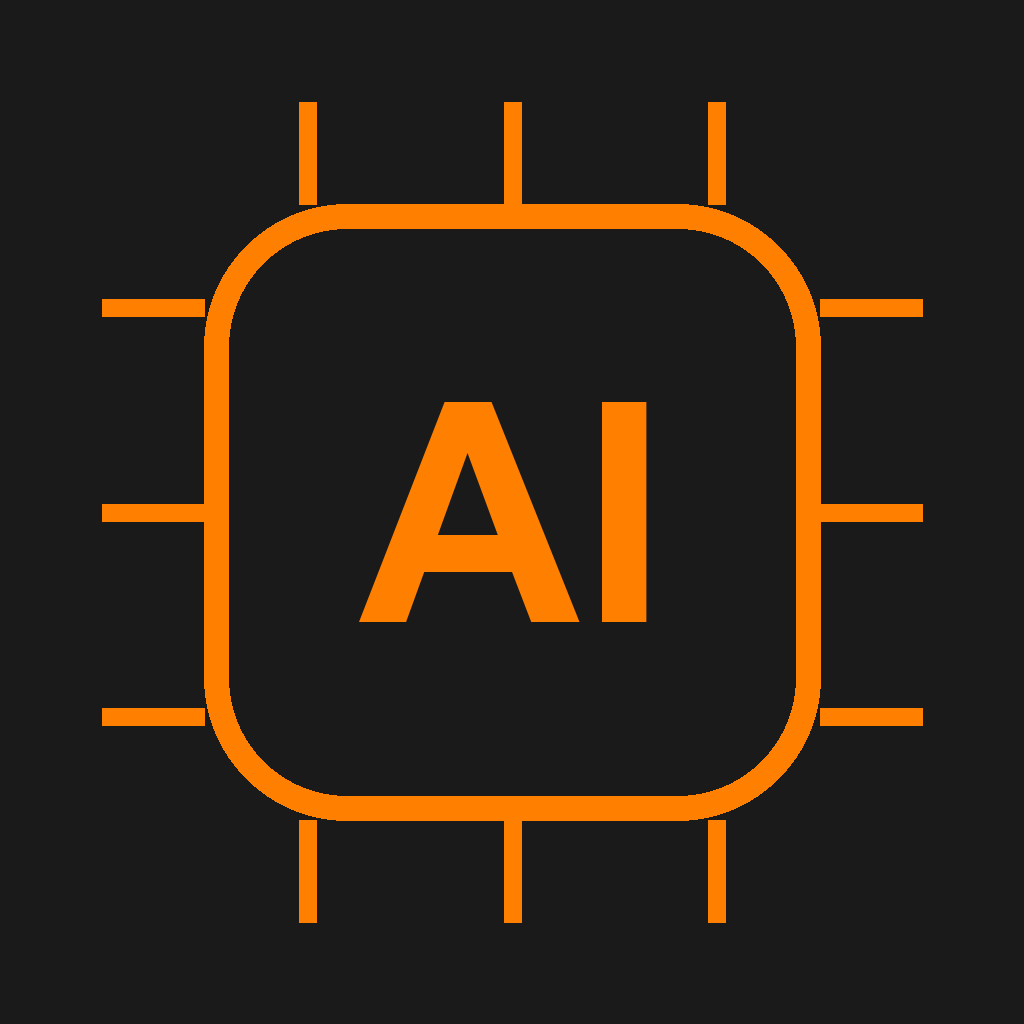
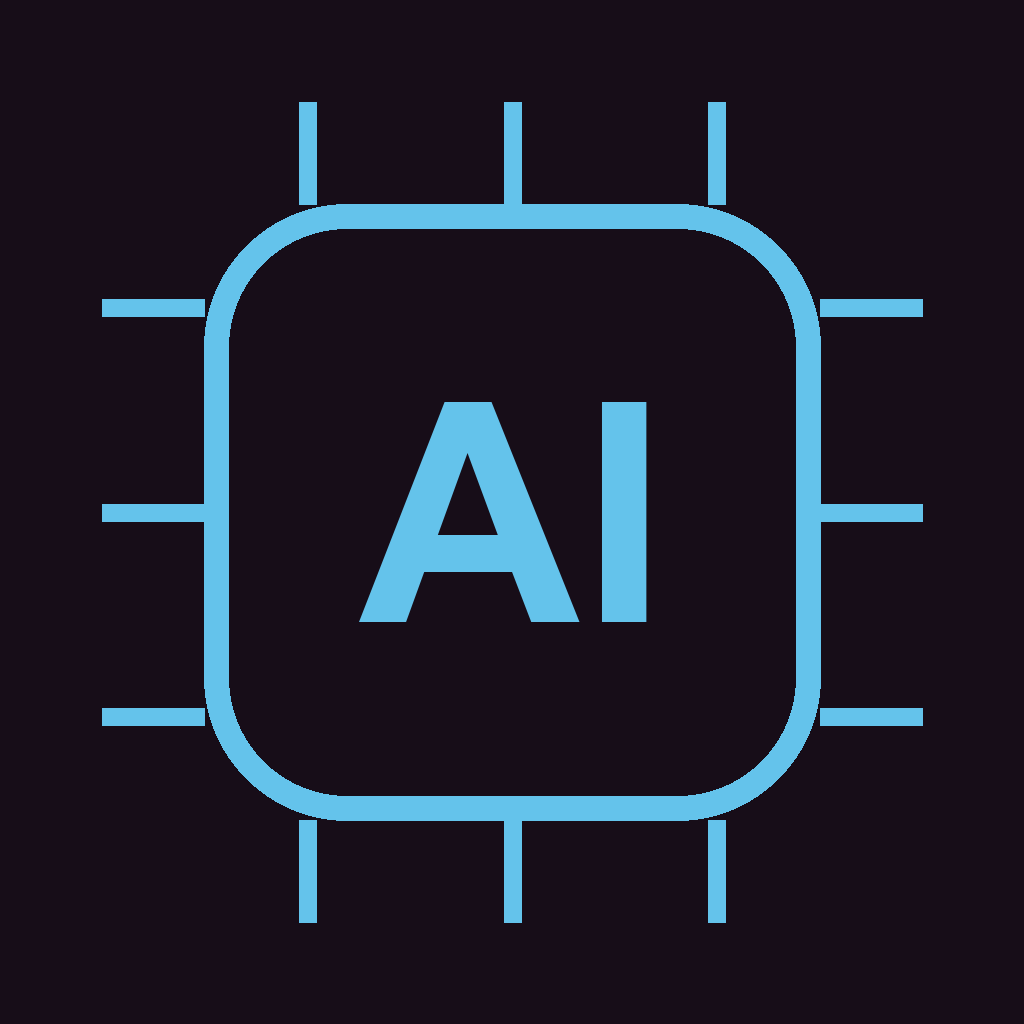
Full color palette overhaul: deep purple/blue with green/yellow/pink accents
Replaced Racing Orange with a new palette (deep purple #4A154B to sky
blue #64C3EB gradient header, near-black plum chat background) at the
user's request. Put all five colors to real use, not just two:
- Green weather pill, yellow exchange-rate pill (now actually displayed
  in the header, not just fed silently into her AI context)
- Pink hands-free toggle and assistant-bubble accent border
- Blue user message bubbles
Also replaced plain white surfaces (assistant bubbles, mic button, text
input) with a tinted off-white so big blocks don't look like a flat white
sheet dropped on the new palette. Regenerated the AI-chip app icon/splash
in the new colors (was still the old orange/black version).

Changed region(s): [[0.0938, 0.0938, 0.9062, 0.9062], [0.3438, 0.375, 0.6562, 0.625]]

diff --git a/App.tsx b/App.tsx
@@ -32,9 +32,18 @@ import { LinearGradient } from "expo-linear-gradient";
 // orange/black livery colors, deliberately not named after any car brand
 // to avoid trademark issues).
 // -----------------------------------------------------------------------
-const ACCENT = "#FF8A00";
-const ACCENT2 = "#FF3D00";
-const ACCENT_DARK = "#1A1A1A";
+const ACCENT = "#4A154B";
+const ACCENT2 = "#64C3EB";
+const ACCENT_DARK = "#170D18";
+// Reserved for small status/info accents (pills, bubbles) - not page
+// chrome - same "chrome vs status color" split as the original design.
+const STATUS_GREEN = "#5BB381";
+const STATUS_YELLOW = "#E3B34C";
+const STATUS_PINK = "#CE375C";
+// A tinted off-white instead of stark plain white for big surfaces
+// (assistant bubbles, mic button, text input) - reads as part of the
+// purple/blue palette instead of a flat white block dropped on top of it.
+const SURFACE_LIGHT = "#EFE6F1";
 const GEMINI_MODEL = "gemini-3.5-flash-lite";
 const MAX_HISTORY_TURNS = 12;
 
@@ -600,7 +609,7 @@ function AppInner() {
               </View>
               <View style={styles.handsFreeRow}>
                 <Text style={styles.handsFreeLabel}>Hands-free</Text>
-                <Switch value={handsFree} onValueChange={setHandsFree} trackColor={{ true: "#FFFFFF66", false: "#00000033" }} thumbColor="#fff" />
+                <Switch value={handsFree} onValueChange={setHandsFree} trackColor={{ true: STATUS_PINK, false: "#00000033" }} thumbColor="#fff" />
               </View>
             </View>
             <View style={styles.statusRow}>
@@ -608,6 +617,11 @@ function AppInner() {
               {weatherText ? (
                 <View style={styles.weatherPill}>
                   <Text style={styles.weatherPillText}>{weatherText}</Text>
+                </View>
+              ) : null}
+              {exchangeRateText ? (
+                <View style={[styles.weatherPill, styles.exchangePill]}>
+                  <Text style={[styles.weatherPillText, styles.exchangePillText]}>{exchangeRateText}</Text>
                 </View>
               ) : null}
             </View>
@@ -672,7 +686,7 @@ const styles = StyleSheet.create({
   setupSubtitle: { fontSize: 14, color: "#fff", marginBottom: 24, textAlign: "center" },
   setupInput: {
     width: "100%",
-    backgroundColor: "#fff",
+    backgroundColor: SURFACE_LIGHT,
     borderRadius: 10,
     padding: 14,
     fontSize: 14,
@@ -688,28 +702,30 @@ const styles = StyleSheet.create({
   statusRow: { flexDirection: "row", alignItems: "center", marginTop: 12, flexWrap: "wrap", gap: 8 },
   headerSubtitle: { fontSize: 12.5, color: "#fff", opacity: 0.95, flexShrink: 1 },
   weatherPill: {
-    backgroundColor: "rgba(0,0,0,0.18)",
+    backgroundColor: STATUS_GREEN,
     paddingHorizontal: 10,
     paddingVertical: 3,
     borderRadius: 20,
   },
-  weatherPillText: { color: "#fff", fontSize: 11.5, fontWeight: "600" },
+  weatherPillText: { color: "#fff", fontSize: 11.5, fontWeight: "700" },
+  exchangePill: { backgroundColor: STATUS_YELLOW },
+  exchangePillText: { color: "#3B2A08" },
   handsFreeRow: { flexDirection: "row", alignItems: "center" },
   handsFreeLabel: { color: "#fff", marginRight: 8, fontSize: 12.5, fontWeight: "600", opacity: 0.95 },
   chatArea: { flex: 1, backgroundColor: ACCENT_DARK },
   emptyText: { color: "#ccc", fontStyle: "italic", textAlign: "center", marginTop: 40 },
   bubble: { borderRadius: 12, padding: 12, marginBottom: 10, maxWidth: "85%" },
-  bubbleUser: { backgroundColor: ACCENT, alignSelf: "flex-end" },
-  bubbleAssistant: { backgroundColor: "#fff", alignSelf: "flex-start", borderLeftWidth: 3, borderLeftColor: ACCENT },
+  bubbleUser: { backgroundColor: ACCENT2, alignSelf: "flex-end" },
+  bubbleAssistant: { backgroundColor: SURFACE_LIGHT, alignSelf: "flex-start", borderLeftWidth: 3, borderLeftColor: STATUS_PINK },
   bubbleTag: { fontSize: 10, fontWeight: "700", opacity: 0.6, marginBottom: 4 },
-  bubbleTextUser: { color: "#fff", fontSize: 14 },
+  bubbleTextUser: { color: "#0B2430", fontSize: 14 },
   bubbleTextAssistant: { color: "#1D1929", fontSize: 14 },
   inputArea: { backgroundColor: ACCENT_DARK, padding: 12, paddingBottom: 24 },
-  micButton: { backgroundColor: "#fff", borderRadius: 10, paddingVertical: 14, alignItems: "center", marginBottom: 8 },
-  micButtonActive: { backgroundColor: "#FFE0B2" },
+  micButton: { backgroundColor: SURFACE_LIGHT, borderRadius: 10, paddingVertical: 14, alignItems: "center", marginBottom: 8 },
+  micButtonActive: { backgroundColor: "#D9F0E6" },
   micButtonText: { color: ACCENT, fontWeight: "700", fontSize: 15 },
   typeRow: { flexDirection: "row", alignItems: "center" },
-  typeInput: { flex: 1, backgroundColor: "#fff", borderRadius: 10, padding: 12, fontSize: 14, marginRight: 8 },
-  sendButton: { backgroundColor: ACCENT, borderRadius: 10, width: 44, height: 44, alignItems: "center", justifyContent: "center" },
-  sendButtonText: { color: "#fff", fontSize: 20, fontWeight: "700" },
+  typeInput: { flex: 1, backgroundColor: SURFACE_LIGHT, borderRadius: 10, padding: 12, fontSize: 14, marginRight: 8, color: "#1D1929" },
+  sendButton: { backgroundColor: ACCENT2, borderRadius: 10, width: 44, height: 44, alignItems: "center", justifyContent: "center" },
+  sendButtonText: { color: "#0B2430", fontSize: 20, fontWeight: "700" },
 });
